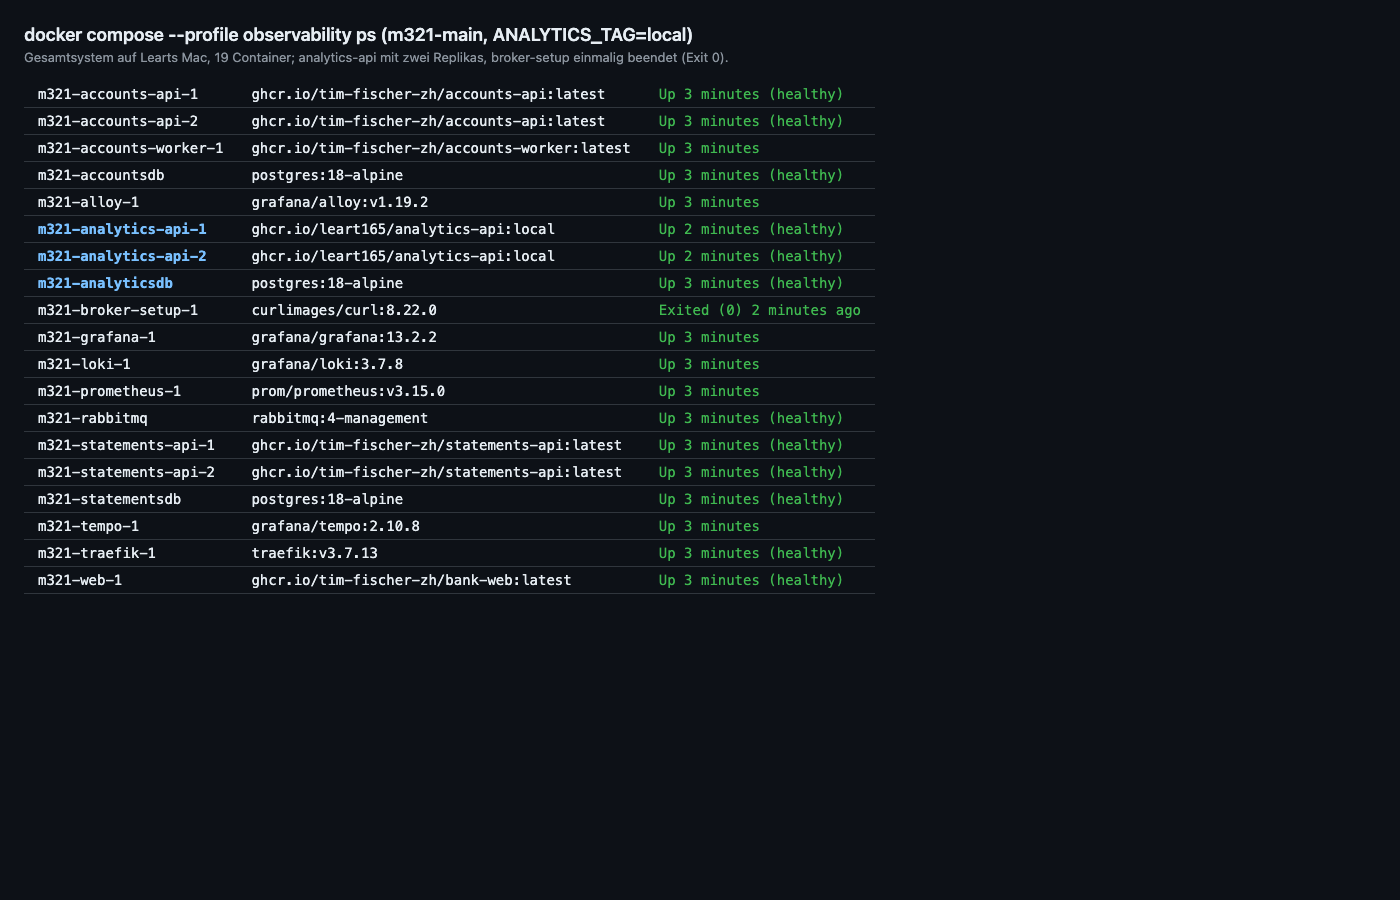
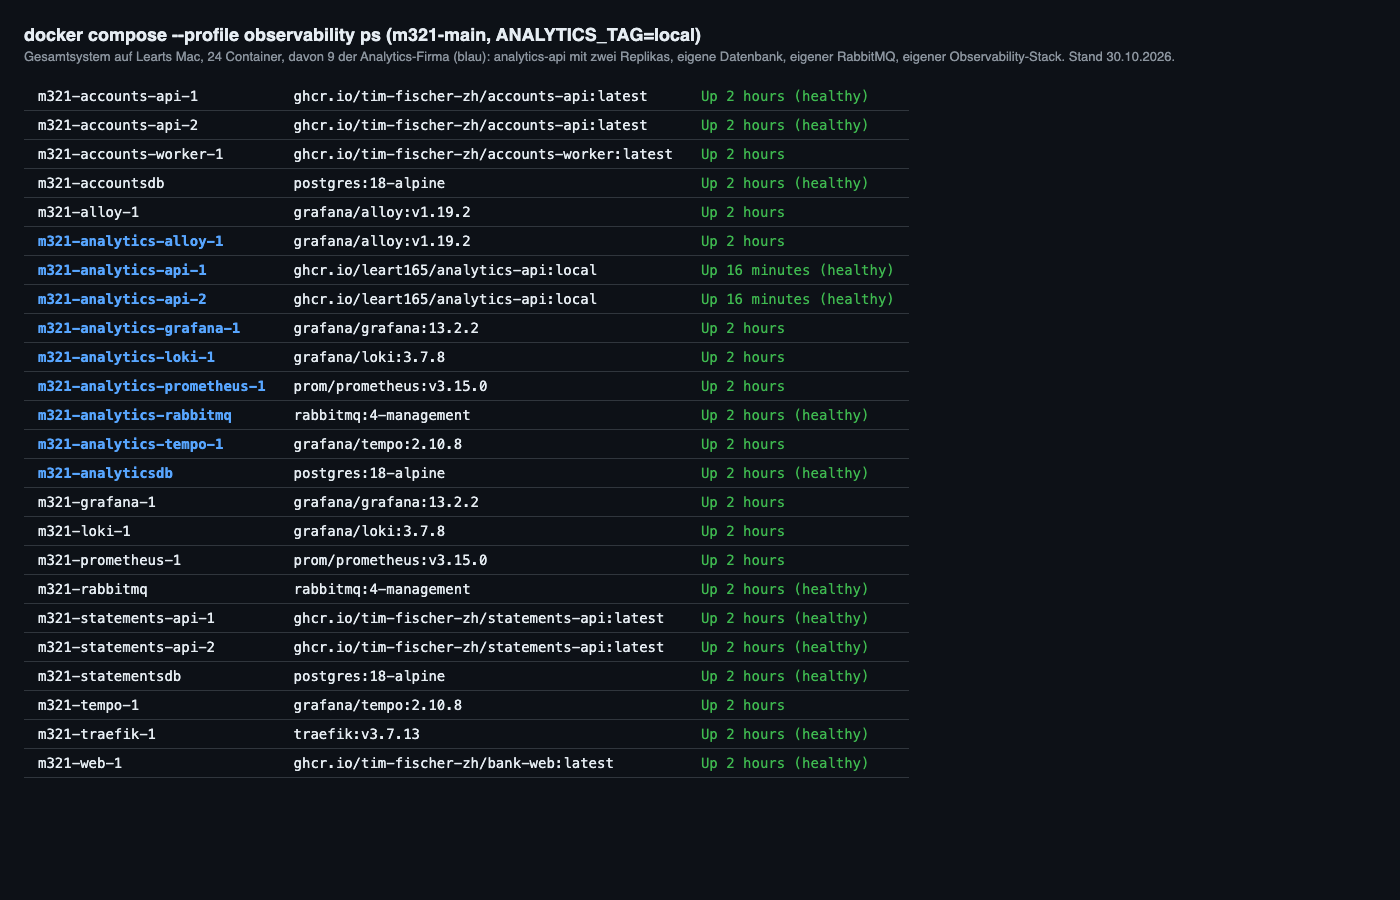
Doku an die Trennung der Firmen und die neuen Features angleichen
- README und Architektur: Vergleich vorher und jetzt, offener Contract-Schritt der Bank
- Demo: Budget richtig beschrieben, Abschnitt zur Trennung der Firmen
- Bildschirmfotos neu aus dem laufenden System
- Kontrakt-README: Stand von Jahresauszug und Budget
- Kommentare und Titel, die noch nach einer Firma klangen

Changed region(s): [[0.0307, 0.0311, 0.7986, 0.8711]]

diff --git a/src/Analytics.Api/wwwroot/js/main.js b/src/Analytics.Api/wwwroot/js/main.js
@@ -205,7 +205,7 @@ function showSignedOut(error) {
 }
 
 // Warnung oben auf jeder Seite, sobald 80 oder 100 Prozent des Monatsbudgets ausgegeben sind.
-// Die Stufe legt der Dienst im Hintergrund fest (Queue analytics.budgets); die Seite fragt jede Minute.
+// Die Stufe rechnet die API aus den gespeicherten Buchungen; die Seite fragt jede Minute.
 async function refreshBudget() {
   if (!app.api) {
     return;

diff --git a/src/Analytics.Infrastructure/Messaging/MessagingMetrics.cs b/src/Analytics.Infrastructure/Messaging/MessagingMetrics.cs
@@ -8,8 +8,8 @@ public static class MessagingMetrics
 
     private static readonly Meter Meter = new Meter(MeterName);
 
-    // Derselbe Name wie bei den Konsumenten der Bank: das gemeinsame Dashboard gruppiert nur
-    // nach queue und outcome und zeigt analytics.reports so neben statements.ledger.
+    // Derselbe Name wie bei den Konsumenten der Bank, damit die Dashboards beider Firmen gleich
+    // aufgebaut sind. Das eigene Dashboard gruppiert nach queue und outcome.
     private static readonly Counter<long> Consumed = Meter.CreateCounter<long>(
         "bank.messages.consumed",
         unit: "{message}",

diff --git a/docs/architecture.md b/docs/architecture.md
@@ -17,7 +17,7 @@ flowchart LR
     kunde(["<b>Kunde der Bank</b><br/>Browser"])
 
     subgraph bank["Bank (Tim)"]
-        traefik["<b>Traefik</b><br/>Eingang :8080"]
+        traefik["<b>Traefik</b><br/>Eingänge :8080, :8091"]
         kc["<b>Keycloak</b><br/>auth.fischerfocus.com"]
         stmt["<b>statements-api</b><br/>GET /v2/statements/bookings"]
         bobs["Observability der Bank<br/>Grafana :3000"]
@@ -31,7 +31,7 @@ flowchart LR
     end
 
     kunde -->|"Sign in with Bank<br/>Client analytics-web"| kc
-    kunde -->|"analytics.localhost:8080"| traefik
+    kunde -->|"localhost:8091"| traefik
     traefik -->|"traceparent"| api
     api -->|"Token des Kunden<br/>über traefik:8080"| traefik
     traefik --> stmt
@@ -52,8 +52,9 @@ flowchart LR
 ```
 
 Durchgezogen ist synchron (HTTP), gestrichelt asynchron. Mein Container hängt nur im Netz
-`partner`: er sieht `analyticsdb`, `analytics-rabbitmq`, `analytics-alloy` und `traefik`, aber
-weder eine Datenbank noch den Broker noch die Observability der Bank.
+`partner`: er benutzt dort `analyticsdb`, `analytics-rabbitmq`, `analytics-alloy` und `traefik`.
+Eine Datenbank der Bank sieht er nicht. Der Broker und der Alloy der Bank hängen im Moment noch im
+selben Netz, bis Tim den Contract-Schritt abschliesst (siehe unten); mein Dienst benutzt sie nicht.
 
 | Richtung | Protokoll | Kontrakt | Zweck |
 |---|---|---|---|
@@ -222,8 +223,9 @@ hält keinen Monatsbericht auf, und beide lassen sich getrennt beobachten und sk
 
 Der Kunde legt ein Budget für seine Ausgaben im Monat fest (`PUT /v2/analytics/me/budget`).
 Ausgaben sind wie bei den Summen Auszahlungen und ausgehende Überweisungen. Erreichen sie 80
-Prozent, gibt es eine Warnung, bei 100 Prozent eine zweite. Die Seite zeigt sie oben auf jeder
-Seite und auf der Karte "Monatsbudget".
+Prozent, gibt es eine Warnung, bei 100 Prozent eine zweite. Der Konsument hält sie fest, die Karte
+"Monatsbudget" listet sie auf. Den Stand, den Balken und den Hinweis oben auf der Seite rechnet die
+API bei jedem `GET` direkt aus den gespeicherten Buchungen; dafür wartet sie nicht auf die Queue.
 
 ```mermaid
 sequenceDiagram
@@ -292,29 +294,42 @@ Ist der Broker beim Start nicht da oder scheitert die Vorbereitung, wird der Kan
 und alle zwei Sekunden neu versucht; es bleiben keine Kanäle liegen (getestet, indem dem Benutzer
 die Rechte entzogen und wieder gegeben werden).
 
-## Vom Broker der Bank zu HTTP
+## Von einer gefühlten Firma zu zwei Firmen
+
+| | Vorher: gefühlt eine Firma | Jetzt: zwei Firmen |
+|---|---|---|
+| Buchungen | Ereignis über den Broker der Bank, von allen Kunden | HTTP `GET /v2/statements/bookings` mit dem Token des Kunden, nur mit seiner Zustimmung |
+| RabbitMQ | ein Broker für beide, die Analytics-Firma mit eigenem Benutzer darauf | je einer: `m321-rabbitmq` für die Bank, `analytics-rabbitmq` für die Analytics-Firma |
+| Grafana, Loki, Tempo, Prometheus | ein Stack für beide | je einer: Bank auf `:3000`, Analytics-Firma auf `:3001` |
+| Logs | gemischt | getrennt, verbunden nur über Trace-Id und Korrelations-Id |
+| Berührungspunkte | Broker, Observability, Keycloak, Traefik | Keycloak und der HTTP-Aufruf über Traefik |
 
 Die Buchungen kamen zuerst über den Broker der Bank: als internes `transaction.completed`
 (Queue `analytics.ledger`, `analytics/asyncapi.v1.yaml`), dann als schlankes
 `partner.transaction.completed` (Queue `analytics.partner`, `analytics/asyncapi.v2.yaml`) mit
 einem eigenen, eingeschränkten Broker-Benutzer. Beide Umstellungen liefen als Expand and Contract.
 
-Seit Ende Oktober trennen wir die Firmen ganz. Die Analytics-Firma hängt nicht mehr am Broker der
-Bank, sondern liest mit dem Token des Kunden über HTTP. Gründe:
+Seit Ende Oktober sind die Firmen getrennt. Die Analytics-Firma hängt nicht mehr am Broker der
+Bank, sondern liest mit dem Token des Kunden über HTTP. RabbitMQ transportiert bei ihr keine
+Buchungen mehr, sondern nur noch Aufträge an die eigenen Worker. Gründe:
 
 - Zwischen den Firmen gibt es jetzt einen **synchronen Aufruf über einen formalen
   OpenAPI-Kontrakt**; vorher hatte dieser Dienst keinen Aufruf von Dienst zu Dienst.
 - Die Analytics-Firma sieht **nur Kunden, die zugestimmt haben**, und nur, solange sie zustimmen.
   Über den Broker bekam sie die Buchungen aller Kunden.
-- Kein Zugang zu fremder Infrastruktur: kein Broker-Benutzer, kein Netz der Bank.
+- Kein Zugriff auf fremde Infrastruktur: Jede Firma betreibt ihren eigenen Broker und ihre eigene
+  Observability.
 
 | Schritt | Wer | Was |
 |---|---|---|
-| Expand | Tim | `GET /v2/statements/bookings` in `statements/openapi.v2.yaml` 2.1.0, `statements:read` als optionaler Scope von `analytics-web` |
-| Migrate | Leart | Client aus dem Kontrakt, Token weiterreichen, Resilience; Summen, Buchungen und Berichte aus der Antwort der Bank; eigener Broker; Konsument von `analytics.partner`, Deklaration an `bank.events` und Laufzeitprüfung gegen `partner/asyncapi.v1.yaml` entfernt; Tabellen `processed_transactions`, `owner_monthly`, `system_daily` per Migration gelöscht |
-| Contract | Tim | `partner.transaction.completed` nicht mehr veröffentlichen, `broker-setup`, `partner-access.sh` und Benutzer `analytics` entfernen, Broker der Bank aus dem Netz `partner` nehmen |
+| Expand, erledigt | Tim | `GET /v2/statements/bookings` in `statements/openapi.v2.yaml` 2.1.0, `statements:read` als optionaler Scope von `analytics-web` |
+| Migrate, erledigt | Leart | Client aus dem Kontrakt, Token weiterreichen, Resilience; Summen, Buchungen und Berichte aus der Antwort der Bank; eigener Broker; Konsument von `analytics.partner`, Deklaration an `bank.events` und Laufzeitprüfung gegen `partner/asyncapi.v1.yaml` entfernt; Tabellen `processed_transactions`, `owner_monthly`, `system_daily` per Migration gelöscht |
+| Contract, offen | Tim | `partner.transaction.completed` nicht mehr veröffentlichen, `broker-setup`, `partner-access.sh` und Benutzer `analytics` entfernen, Broker der Bank aus dem Netz `partner` nehmen |
 
-Keine Firma muss gleichzeitig mit der anderen deployen: zwischen den Schritten laufen beide Wege.
+Keine Firma muss gleichzeitig mit der anderen deployen. Bis Tim den letzten Schritt macht, liegen
+am Broker der Bank noch die Reste: die Bindung auf `analytics.partner` (ohne Consumer, die Queue
+füllt sich also), ein altes `analytics.reports` und der Benutzer `analytics`. Mein Dienst benutzt
+nichts davon.
 
 `analytics/openapi.v1.yaml` bleibt unverändert, wie jeder veröffentlichte Kontrakt; die CI von
 `m321-main` lehnt jede Änderung an einer `*.v1.yaml` ab. Version 1 antwortet weiter im selben
@@ -479,3 +494,5 @@ eine CI, die ein fremdes Repo holt, koppelt die Repos.
 | 2026-10-30 | Buchungen über HTTP beim Auszugsdienst mit dem Token des Kunden: erzeugter Client, Weitergabe des Tokens, Zeitlimit, Wiederholung, Circuit Breaker, gespeicherter Stand bei Ausfall; Login mit `statements:read`; eigener Broker `analytics-rabbitmq`; Konsument von `analytics.partner` und die Summentabellen entfernt; CI ohne Abgleich mit dem Shared-Repo | Firmen komplett getrennt, synchrone Kommunikation über einen formalen Kontrakt, nur Kunden mit Zustimmung; Image war seit dem 2.10. nicht veröffentlicht |
 | 2026-10-30 | Eigener Observability-Stack: `analytics-alloy`, `-loki`, `-tempo`, `-prometheus`, `-grafana` mit den Dashboards "Analytics: Logs", "Metriken" und "Traces"; der Alloy der Bank lässt die Container der Analytics-Firma weg | Auch Logs, Traces und Metriken gehören jeder Firma selbst |
 | 2026-10-30 | Jahresauszug als PDF über die eigene Queue `analytics.annual-reports`; Monatsbudget (`/v2/analytics/me/budget`) mit Warnung bei 80 und 100 Prozent über die Queue `analytics.budgets`, Tabellen `budgets` und `budget_alerts`; Warnhinweis oben auf der Statistikseite | Kunden wollen den ganzen Jahresauszug für die Steuererklärung und eine Warnung, bevor das Geld für den Monat aufgebraucht ist |
+| 2026-10-30 | Bildschirmfotos in `docs/nachweis` neu aus dem laufenden System: eigener Broker mit drei Queues, eigenes Grafana, Swagger mit Budget und Jahresauszug | Die alten vom 28.9. zeigten noch den Broker der Bank und die abgelösten Queues |
+| 2026-11-05 | Doku an die Trennung der Firmen angeglichen: Vergleich vorher und jetzt, offener Contract-Schritt der Bank, Budgethinweis richtig beschrieben | Teile lasen sich noch wie eine Firma |

diff --git a/README.md b/README.md
@@ -12,7 +12,7 @@ flowchart LR
     kc["Keycloak der Bank<br/>Client analytics-web<br/>analytics:read, statements:read"]
 
     subgraph bank["Bank"]
-        traefik["Traefik<br/>Eingang :8080"]
+        traefik["Traefik<br/>Eingänge :8080, :8091"]
         stmt["statements-api<br/>GET /v2/statements/bookings"]
     end
 
@@ -42,7 +42,7 @@ flowchart LR
     end
 
     kunde -->|"Sign in with Bank, PKCE"| kc
-    kunde -->|"analytics.localhost:8080"| traefik
+    kunde -->|"localhost:8091"| traefik
     traefik --> web
     web -->|"Bearer, X-Correlation-Id"| api
     api -->|"Token des Kunden weitergereicht,<br/>Zeitlimit, Wiederholung, Kreis"| traefik
@@ -60,8 +60,25 @@ flowchart LR
 ```
 
 Durchgezogene Pfeile sind synchrone Aufrufe, gestrichelte Nachrichten über den eigenen Broker und
-die Daten für die eigene Observability. Traefik ist der gemeinsame Eingang: über ihn kommt der Kunde
-zur Statistikseite, und über ihn fragt der Dienst die Bank.
+die Daten für die eigene Observability. Traefik gehört zur Bank und ist der Eingang im Gesamtsystem:
+über ihn kommt der Kunde zur Statistikseite, und über ihn fragt der Dienst die Bank.
+
+## Zwei getrennte Firmen
+
+Bank und Analytics-Firma sahen zuerst aus wie eine Firma. Darum haben wir sie getrennt:
+
+| | Vorher: gefühlt eine Firma | Jetzt: zwei Firmen |
+|---|---|---|
+| Buchungen | Ereignis über den Broker der Bank, von allen Kunden | HTTP `GET /v2/statements/bookings` mit dem Token des Kunden, nur mit seiner Zustimmung |
+| RabbitMQ | ein Broker für beide, die Analytics-Firma mit eigenem Benutzer darauf | je einer: `m321-rabbitmq` für die Bank, `analytics-rabbitmq` für die Analytics-Firma |
+| Grafana, Loki, Tempo, Prometheus | ein Stack für beide | je einer: Bank auf `:3000`, Analytics-Firma auf `:3001` |
+| Logs | gemischt | getrennt, verbunden nur über Trace-Id und Korrelations-Id |
+| Berührungspunkte | Broker, Observability, Keycloak, Traefik | Keycloak und der HTTP-Aufruf über Traefik |
+
+RabbitMQ transportiert keine Buchungen mehr. Der eigene Broker trägt nur noch Aufträge an die
+eigenen Worker: Monatsbericht, Jahresauszug und Budgetprüfung.
+
+## Was in welchem Fall passiert
 
 | Fall | Was passiert |
 |---|---|
@@ -81,7 +98,7 @@ zur Statistikseite, und über ihn fragt der Dienst die Bank.
 | derselbe Antrag kommt doppelt, auch auf beiden Instanzen gleichzeitig | ein PDF: der zweite Konsument merkt an `xmin` von Postgres, dass der Bericht schon fertig ist |
 | Jahresauszug beantragt (`POST /v2/analytics/me/annual-reports`) | wie der Monatsbericht, aber die Buchungen des ganzen Jahres und die eigene Queue `analytics.annual-reports`; PDF "Jahresauszug 2025" |
 | Budget festgelegt (`PUT /v2/analytics/me/budget`) | gilt für jeden Monat; der laufende Monat wird gleich im Hintergrund geprüft |
-| neue Buchungen von der Bank gespeichert, Kunde hat ein Budget | Prüfung über `analytics.budgets`; ab 80 % eine Warnung, ab 100 % eine zweite, jede einmal im Monat, auch bei zwei Instanzen. Die Seite zeigt sie oben auf jeder Seite |
+| neue Buchungen von der Bank gespeichert, Kunde hat ein Budget | Prüfung über `analytics.budgets`; ab 80 % eine Warnung, ab 100 % eine zweite, jede einmal im Monat, auch bei zwei Instanzen. Die Karte "Monatsbudget" listet sie auf. Den Stand und den Hinweis oben auf der Seite rechnet die API direkt aus den gespeicherten Buchungen |
 | Nachricht passt nicht zum Kontrakt | ohne Wiederholung in die DLQ ihrer Queue, z. B. `analytics.reports.dlq` |
 
 ## Starten
@@ -148,5 +165,20 @@ node --test "tests/frontend/*.test.mjs"
 Die Bank spielt in den Tests `FakeStatementsApi`: sie liefert jedem Kunden nur seine Buchungen,
 merkt sich jeden Aufruf mit Token und Korrelations-Id und kann ablehnen, ausfallen oder hängen.
 
-Mehr in [docs/architecture.md](docs/architecture.md), die Vorführung in [docs/demo.md](docs/demo.md),
-Bildschirmfotos aus dem Gesamtsystem in [docs/nachweis](docs/nachweis).
+Mehr in [docs/architecture.md](docs/architecture.md), die Vorführung in [docs/demo.md](docs/demo.md).
+
+## Bildschirmfotos
+
+Aus dem laufenden Gesamtsystem, Stand 30. Oktober 2026, in [docs/nachweis](docs/nachweis):
+
+| Datei | Was es zeigt |
+|---|---|
+| `01-container-gesund.png` | alle 24 Container gesund, davon 9 der Analytics-Firma, `analytics-api` mit zwei Replikas |
+| `02-traefik-router.png` | die Router von Traefik zu `analytics`, auch `analytics-local` auf dem Eingang 8091 |
+| `03-eigener-rabbitmq-verbindungen.png` | am eigenen Broker hängen nur die zwei Instanzen von `analytics-api` |
+| `04-eigener-rabbitmq-queues.png` | `analytics.reports`, `analytics.annual-reports`, `analytics.budgets`, je mit DLQ |
+| `05-swagger-scopes.png` | Spezifikation v2 mit Budget und Jahresauszug, jede Operation mit Schloss (Scope) |
+| `06-grafana-metriken.png` | eigenes Grafana, "Analytics: Metriken": Anfragen, Instanzen, Aufrufe bei der Bank |
+| `07-sign-in-with-bank.png` | Statistikseite vor der Anmeldung |
+| `08-grafana-traces.png` | eigenes Grafana, "Analytics: Traces": wer ruft wen auf, Aufrufe bei der Bank |
+| `09-grafana-queues.png` | Nachrichten in den drei Queues |

diff --git a/docs/demo.md b/docs/demo.md
@@ -1,6 +1,7 @@
 # Demo: Learts Teil
 
-Etwa zehn Minuten. Alles läuft im Gesamtsystem aus `m321-main`; Befehle aus dessen Verzeichnis.
+Etwa zehn Minuten. Tims RabbitMQ (`:15672`) nicht zeigen: Dort liegen bis zu seinem Contract-Schritt
+noch die alten Reste, siehe Abschnitt 8. Alles läuft im Gesamtsystem aus `m321-main`; Befehle aus dessen Verzeichnis.
 Vorher offen haben: den eigenen RabbitMQ (http://127.0.0.1:15674, Tab *Queues*), das eigene
 Grafana (http://127.0.0.1:3001, Ordner "Analytics": Logs, Metriken, Traces), das Grafana der Bank
 (http://127.0.0.1:3000) und die Statistikseite (http://localhost:8091/, der zweite Eingang von
@@ -86,9 +87,11 @@ docker compose -f docker-compose.yml -f ../override-port-8091.yml start statemen
   damit ein grosser Jahresauszug keinen Monatsbericht aufhält."
 - Reiter "Meine Übersicht", Karte "Monatsbudget": 100 eingeben, **Festlegen**. Der Balken zeigt,
   wie viel diesen Monat schon ausgegeben ist.
-- Im Frontend der Bank 90 auszahlen, dann die Statistikseite neu laden. Der Dienst speichert die
-  neue Buchung, schickt `budget.check.requested` in `analytics.budgets`, der Konsument legt die
-  Warnung an. Oben erscheint "Budget fast aufgebraucht"; nach weiteren 20 "Budget überschritten".
+- Im Frontend der Bank 90 auszahlen, dann die Übersicht neu laden. Der Dienst speichert die neue
+  Buchung und rechnet den Stand: Balken und Hinweis oben "Budget fast aufgebraucht" kommen direkt
+  von der API. Im Hintergrund geht `budget.check.requested` in `analytics.budgets`, der Konsument
+  hält die Warnung fest. Noch einmal neu laden: Sie steht in der Karte. Nach weiteren 20
+  "Budget überschritten".
 - Dazu sagen: "Die Anfrage wartet nicht auf die Prüfung. Jede Stufe kommt einmal im Monat, auch
   wenn beide Instanzen gleichzeitig prüfen: dafür sorgt ein eindeutiger Index."
 - Mein Grafana, Explore, Loki: `{service="analytics-api"} |= "Budget"` zeigt "Warnung angelegt".
@@ -107,12 +110,15 @@ docker stop m321-analytics-api-1
 docker start m321-analytics-api-1
 ```
 
-## 8. Expand and Contract über die Firmengrenze (1 min)
+## 8. Von einer gefühlten Firma zu zwei Firmen (1 min)
 
+- Dazu sagen: "Vorher hatten wir einen RabbitMQ und ein Grafana für beide, das war gefühlt eine
+  Firma. Jetzt hat jede Firma ihren eigenen, und wir reden nur noch über Keycloak und einen
+  HTTP-Vertrag."
 - **Expand**, Tim: `GET /v2/statements/bookings` in `statements/openapi.v2.yaml` 2.1.0, additiv.
 - **Migrate**, ich: Buchungen über HTTP, eigener Broker, der Konsument am Broker der Bank ist weg.
   `contracts/analytics/asyncapi.v2.yaml` ist als abgelöst markiert und bleibt als Nachweis.
-- **Contract**, Tim: `partner.transaction.completed` nicht mehr veröffentlichen, Benutzer
+- **Contract**, Tim, noch offen: `partner.transaction.completed` nicht mehr veröffentlichen, Benutzer
   `analytics` weg, Broker der Bank raus aus dem Netz `partner`.
 - Keine Firma musste gleichzeitig mit der anderen deployen.
 

diff --git a/contracts/README.md b/contracts/README.md
@@ -11,8 +11,8 @@ holt, koppelt die Repos. Abgeglichen wird bei jedem Pull Request an `m321-main`.
 cp -R ../m321-main/contracts/. contracts/
 ```
 
-Nur `analytics/events.asyncapi.v1.yaml` liegt allein hier: er beschreibt die eigene interne Queue
-am eigenen Broker, und die Bank hat damit nichts zu tun.
+Nur `analytics/events.asyncapi.v1.yaml` liegt allein hier: er beschreibt die eigenen internen
+Queues am eigenen Broker, und die Bank hat damit nichts zu tun.
 
 Was dieser Dienst davon benutzt:
 
@@ -20,11 +20,15 @@ Was dieser Dienst davon benutzt:
 |---|---|
 | `statements/openapi.v2.yaml` | ab 2.1.0 `GET /v2/statements/bookings`; daraus erzeugt NSwag beim Build den Client zur Bank |
 | `analytics/openapi.v1.yaml` | eigene HTTP-API, Version 1, nur die Summen |
-| `analytics/openapi.v2.yaml` | eigene HTTP-API, Version 2: Buchungsprotokoll, Monatssummen, Monatsbericht; vom Vertragstest mit der laufenden API verglichen |
-| `analytics/events.asyncapi.v1.yaml` | eigener Exchange `analytics.events` und Queue `analytics.reports`; das Schema von `ReportRequested` wird zur Laufzeit gegen jede Nachricht geprüft |
+| `analytics/openapi.v2.yaml` | eigene HTTP-API, Version 2: Buchungsprotokoll, Monatssummen, Monatsbericht, Jahresauszug, Monatsbudget; vom Vertragstest mit der laufenden API verglichen |
+| `analytics/events.asyncapi.v1.yaml` | eigener Exchange `analytics.events` und die Queues `analytics.reports`, `analytics.annual-reports`, `analytics.budgets`; die Schemas von `ReportRequested`, `AnnualReportRequested` und `BudgetCheckRequested` werden zur Laufzeit gegen jede Nachricht geprüft |
 | `analytics/asyncapi.v1.yaml`, `asyncapi.v2.yaml` | abgelöst, bleiben als Nachweis: die früheren Queues `analytics.ledger` und `analytics.partner` am Broker der Bank |
 | `auth/jwt.md` | Aufbau und Prüfung der Keycloak-Token |
 | `auth/scopes.md` | welcher Scope wofür nötig ist: `analytics:read` für diese API, `statements:read` für das Lesen bei der Bank; vom Vertragstest gelesen |
+
+**Stand 5. November 2026:** Jahresauszug und Budget stehen in `analytics/openapi.v2.yaml` und
+`auth/scopes.md` bisher nur hier, noch nicht in `m321-main`. Der `cp`-Befehl oben würde sie
+überschreiben.
 
 Veröffentlichte `*.v1.yaml` sind im Verhalten unveränderlich. Wer etwas anderes braucht, legt
 `*.v2.yaml` daneben.
